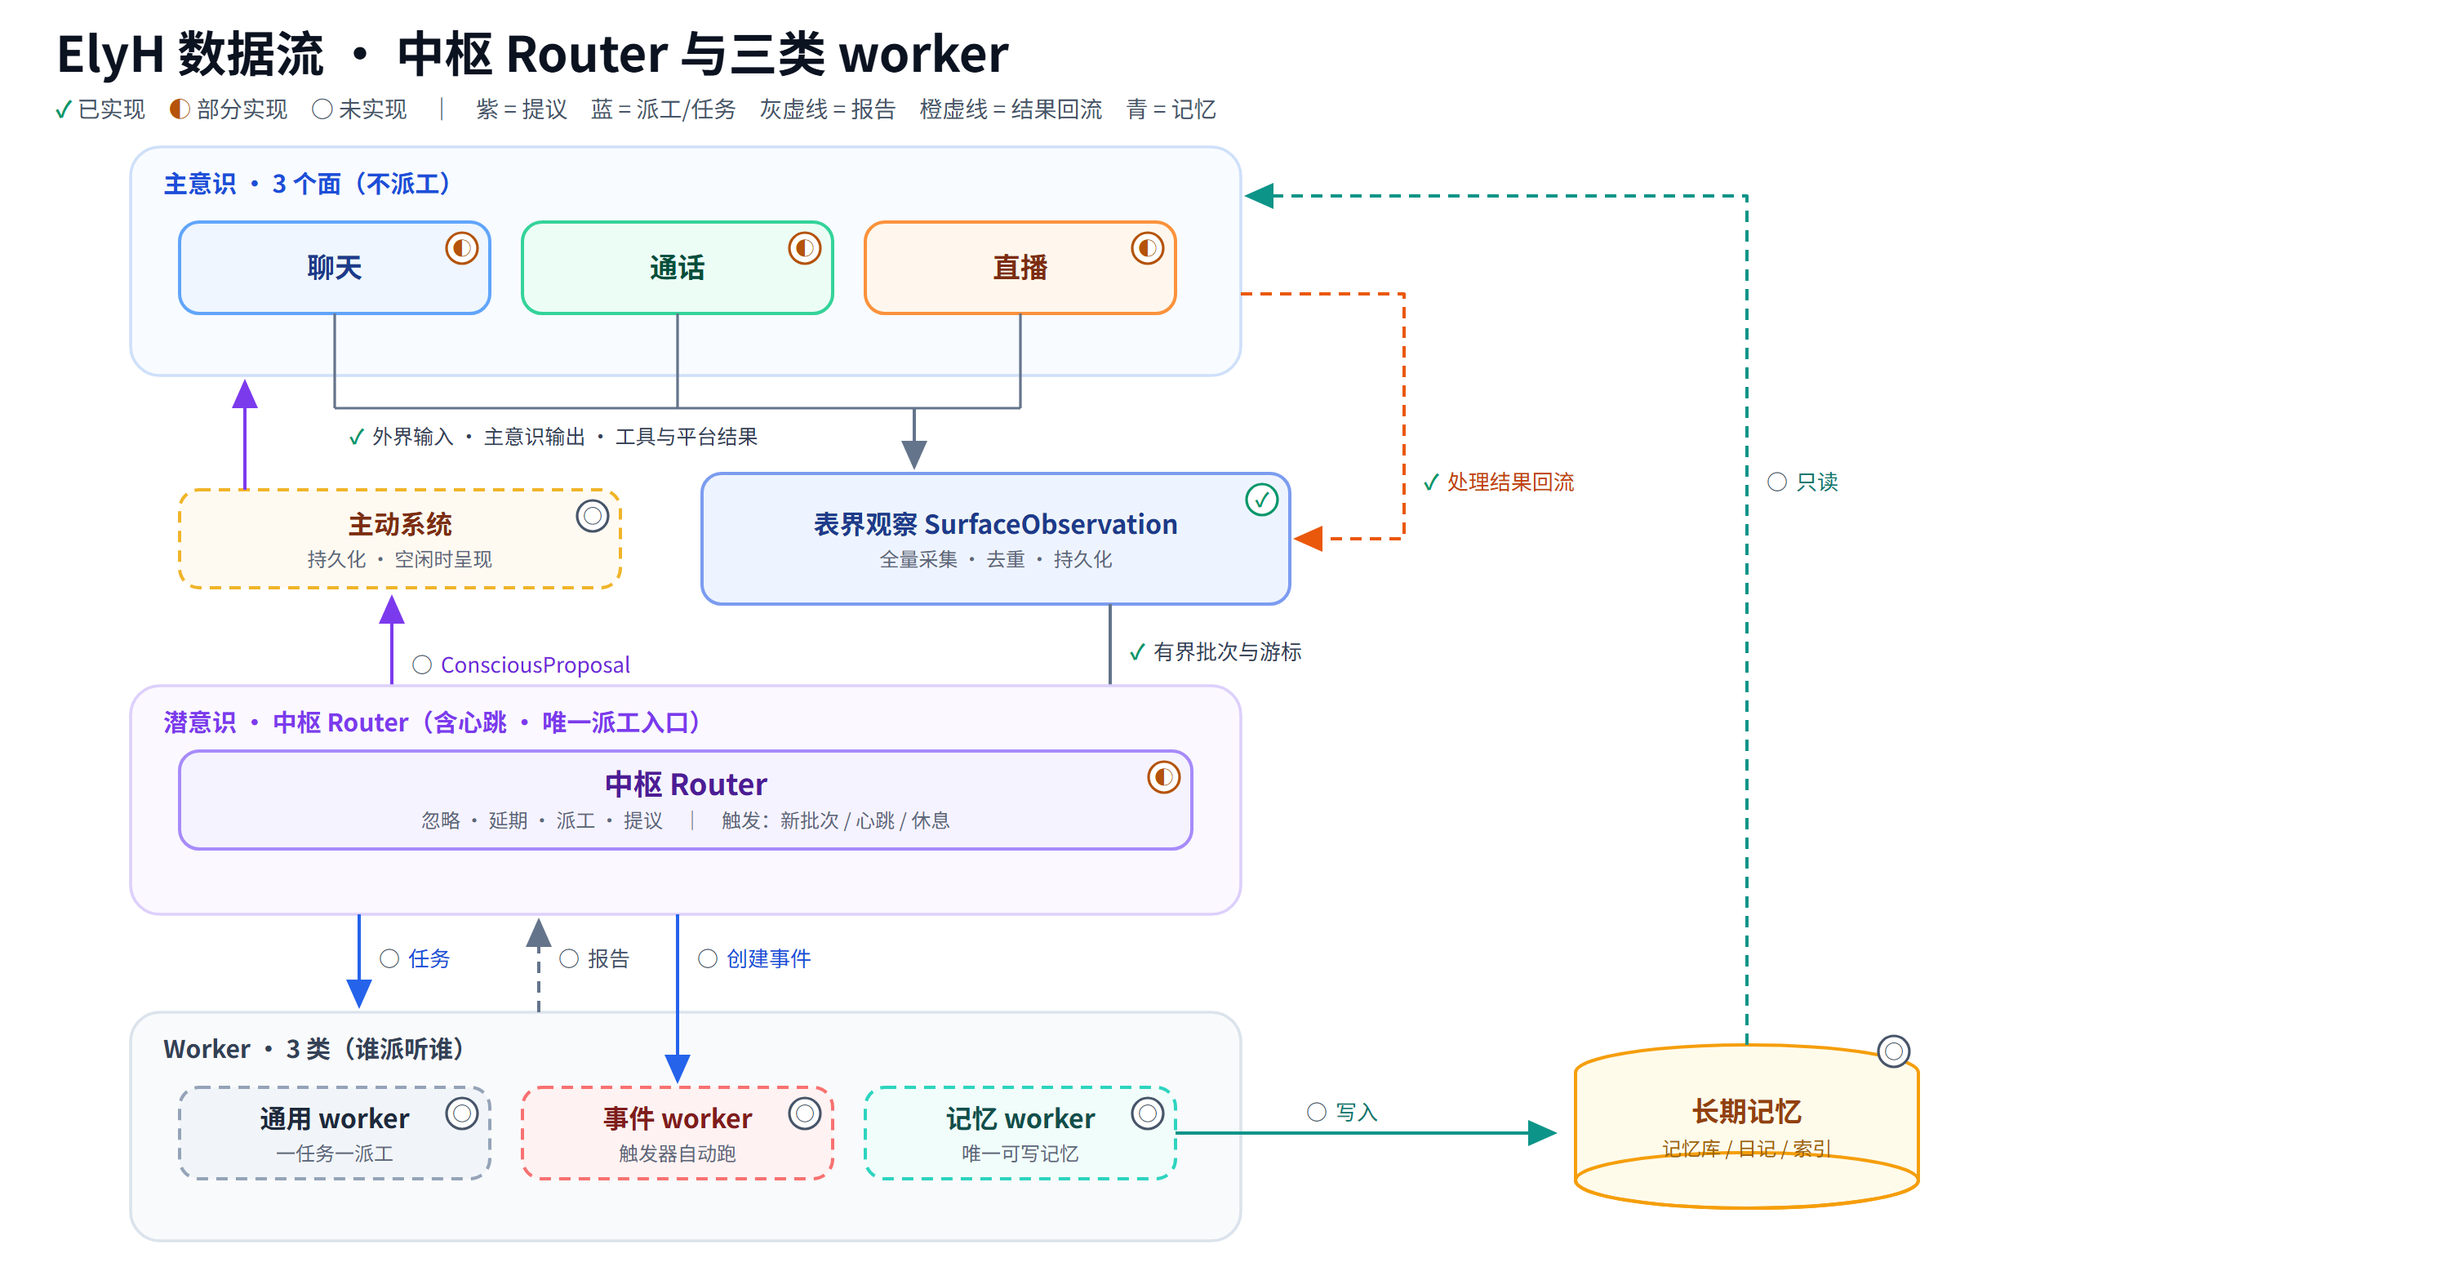
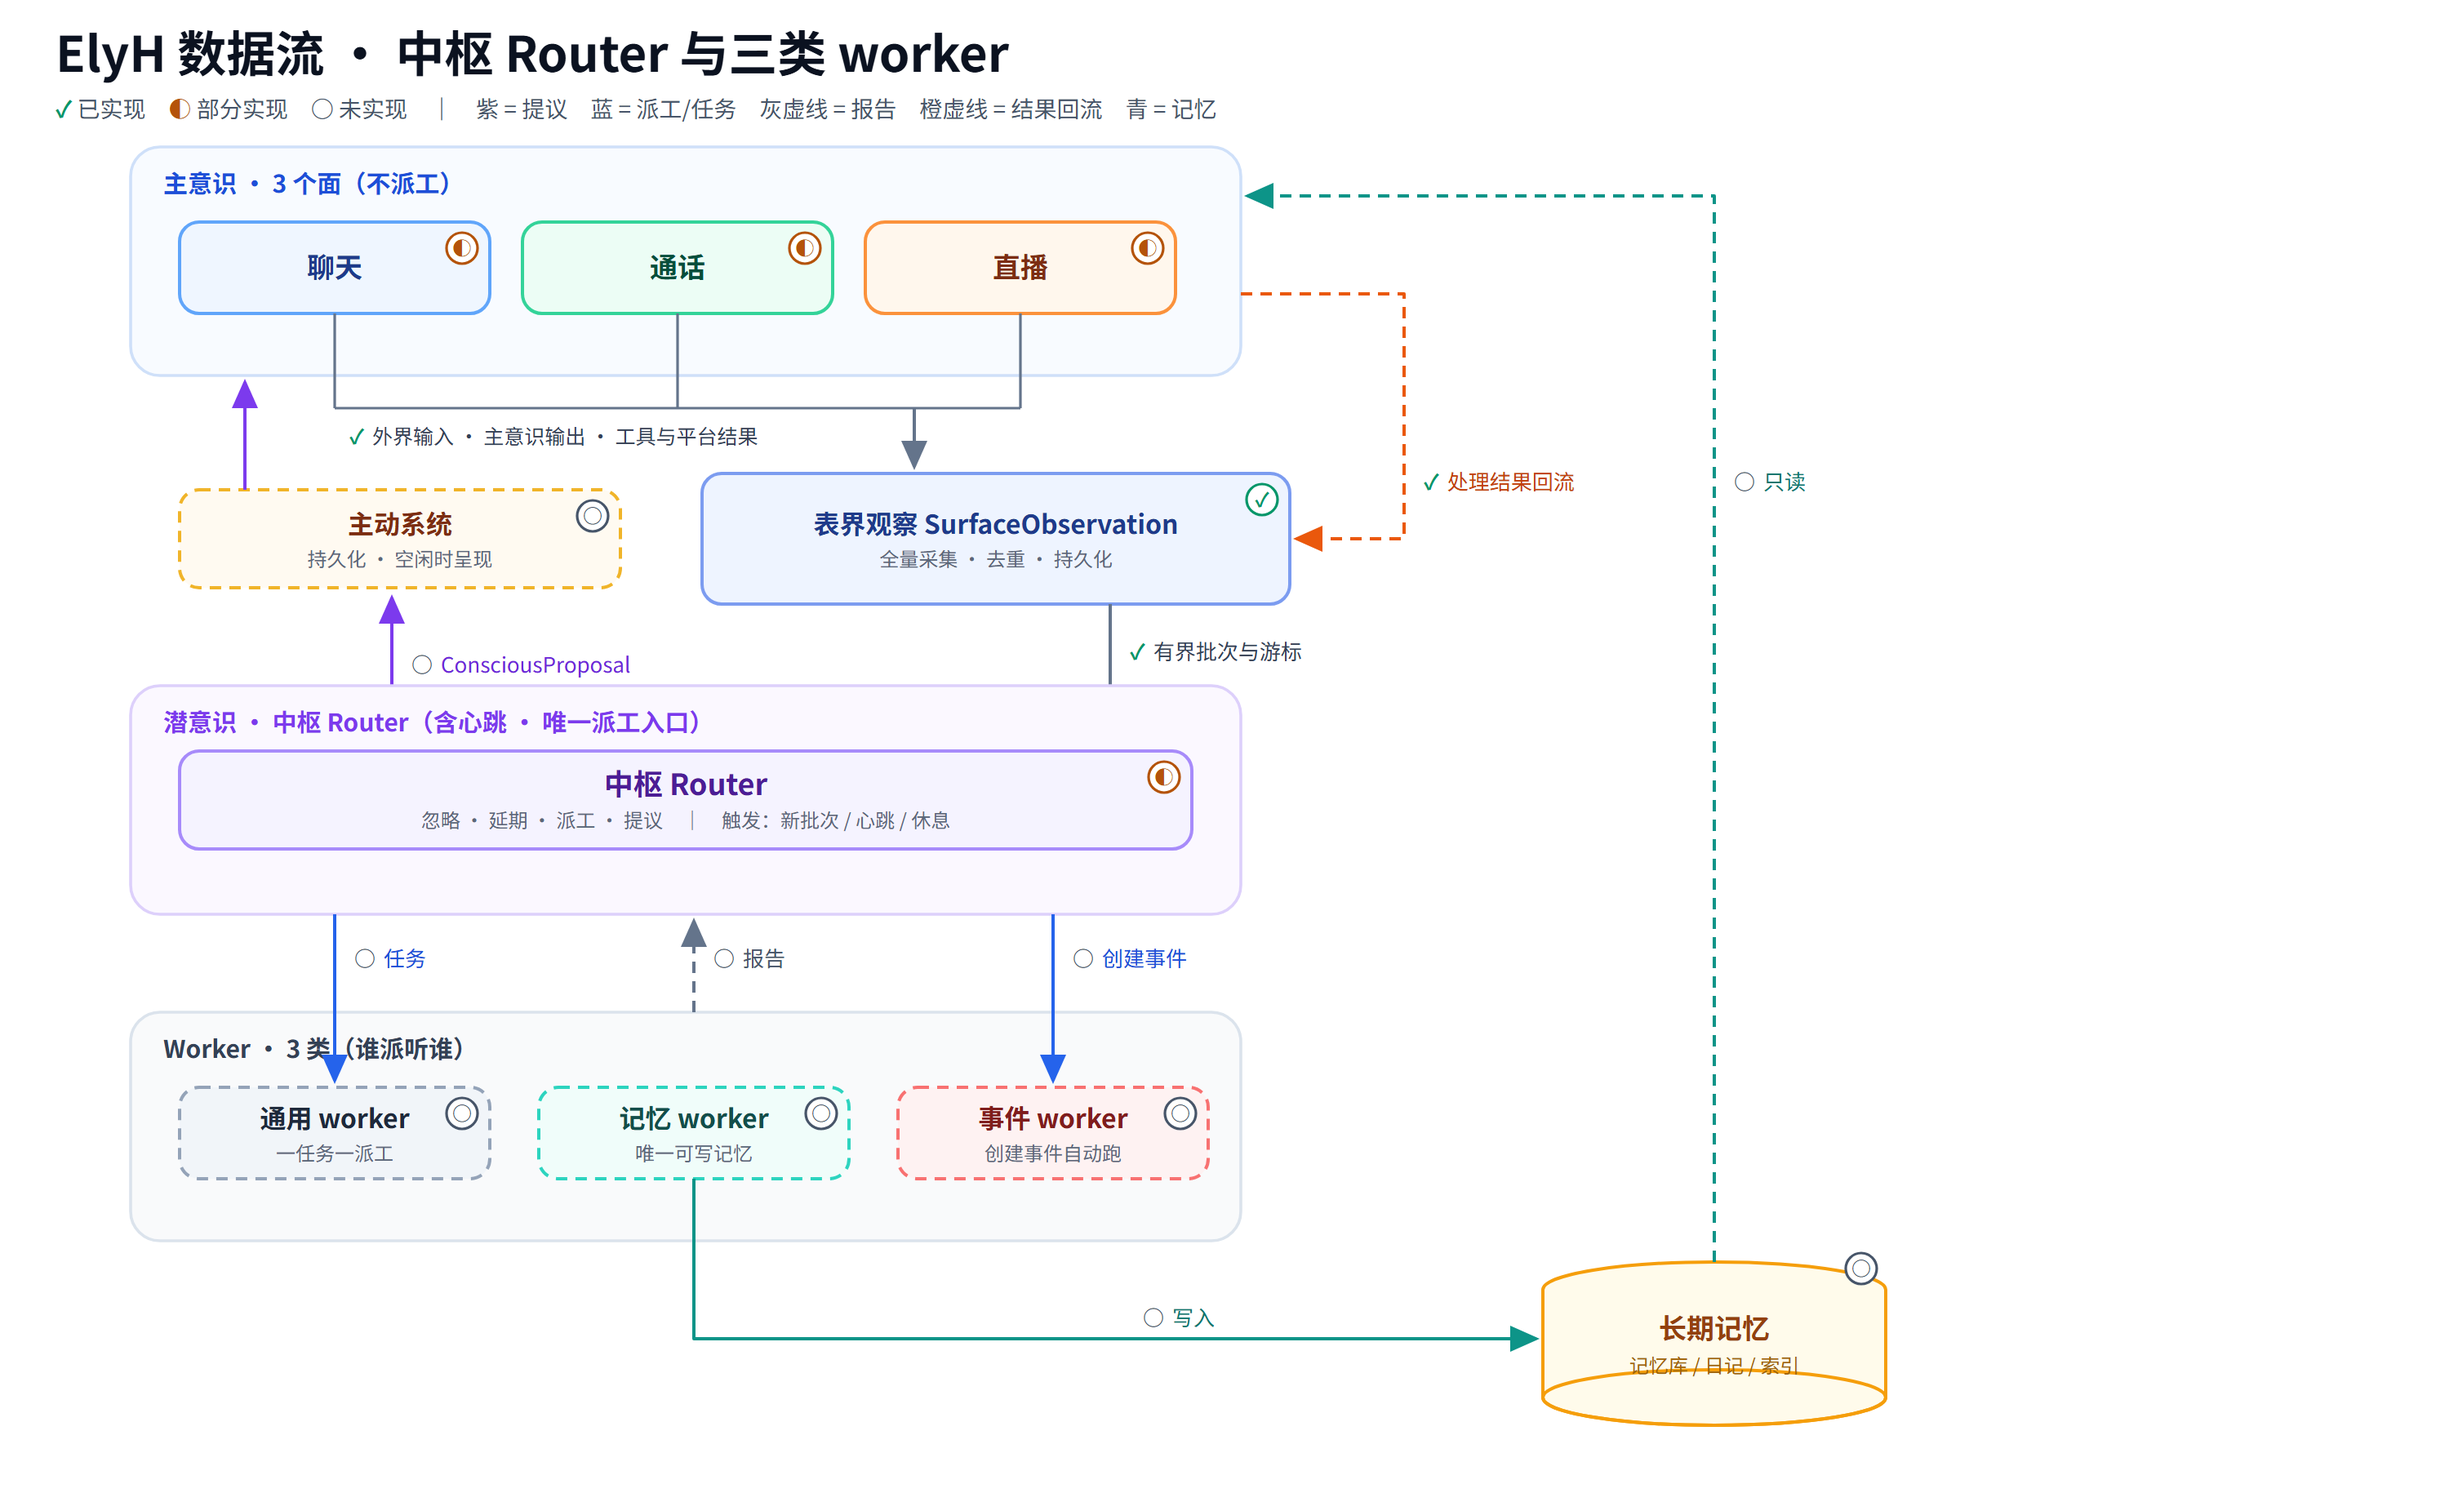
docs(architecture): spread the three dispatch arrows across the worker row
事件 worker 挪到最右，记忆 worker 居中，长期记忆挪到右下——三条箭头各对一张卡片，右侧不再空着。

diff --git a/docs/architecture/elyh-dataflow.html b/docs/architecture/elyh-dataflow.html
@@ -1,4 +1,4 @@
-<!doctype html><html lang="zh-CN"><head><meta charset="utf-8"><style>html,body{margin:0;padding:0;background:#fff}svg{display:block}</style></head><body><svg xmlns="http://www.w3.org/2000/svg" width="1500" height="784" viewBox="0 0 1500 784">
+<!doctype html><html lang="zh-CN"><head><meta charset="utf-8"><style>html,body{margin:0;padding:0;background:#fff}svg{display:block}</style></head><body><svg xmlns="http://www.w3.org/2000/svg" width="1500" height="920" viewBox="0 0 1500 920">
 <defs>
 <marker id="ap" markerWidth="10" markerHeight="10" refX="8" refY="5" orient="auto"><path d="M0,1 L9,5 L0,9 z" fill="#7c3aed"/></marker>
 <marker id="ab" markerWidth="10" markerHeight="10" refX="8" refY="5" orient="auto"><path d="M0,1 L9,5 L0,9 z" fill="#2563eb"/></marker>
@@ -6,7 +6,7 @@
 <marker id="at" markerWidth="10" markerHeight="10" refX="8" refY="5" orient="auto"><path d="M0,1 L9,5 L0,9 z" fill="#0d9488"/></marker>
 <marker id="ao" markerWidth="10" markerHeight="10" refX="8" refY="5" orient="auto"><path d="M0,1 L9,5 L0,9 z" fill="#ea580c"/></marker>
 </defs>
-<rect x="0" y="0" width="1500" height="840" fill="#ffffff"/>
+<rect x="0" y="0" width="1500" height="920" fill="#ffffff"/>
 <text x="34" y="44" font-size="30" font-weight="700" fill="#0b1220">ElyH 数据流 · 中枢 Router 与三类 worker</text>
 <text x="34" y="72" font-size="14" fill="#475569"><tspan fill="#059669" font-weight="700">✓</tspan> 已实现　<tspan fill="#b45309" font-weight="700">◐</tspan> 部分实现　<tspan fill="#475569" font-weight="700">○</tspan> 未实现　｜　紫 = 提议　蓝 = 派工/任务　灰虚线 = 报告　橙虚线 = 结果回流　青 = 记忆</text>
 <rect x="80" y="90" width="680" height="140" rx="18" fill="#f8fbff" stroke="#cfe0f9" stroke-width="1.8"/>
@@ -32,22 +32,22 @@
 <rect x="80" y="620" width="680" height="140" rx="18" fill="#f9fafb" stroke="#dbe3ec" stroke-width="1.8"/>
 <text x="100" y="648" font-size="15" font-weight="700" fill="#334155">Worker · 3 类（谁派听谁）</text>
 <rect x="110" y="666" width="190" height="56" rx="12" fill="#f1f5f9" stroke="#94a3b8" stroke-width="2" stroke-dasharray="7 5"/><text x="205" y="691" font-size="16" font-weight="700" text-anchor="middle" fill="#1e293b">通用 worker</text><text x="205" y="711" font-size="12" text-anchor="middle" fill="#5b6779">一任务一派工</text><circle cx="283" cy="682" r="9.5" fill="#ffffff" stroke="#475569" stroke-width="1.6"/><text x="283" y="686.5" font-size="12" font-weight="700" text-anchor="middle" fill="#475569">○</text>
-<rect x="320" y="666" width="190" height="56" rx="12" fill="#fef2f2" stroke="#f87171" stroke-width="2" stroke-dasharray="7 5"/><text x="415" y="691" font-size="16" font-weight="700" text-anchor="middle" fill="#7f1d1d">事件 worker</text><text x="415" y="711" font-size="12" text-anchor="middle" fill="#5b6779">触发器自动跑</text><circle cx="493" cy="682" r="9.5" fill="#ffffff" stroke="#475569" stroke-width="1.6"/><text x="493" y="686.5" font-size="12" font-weight="700" text-anchor="middle" fill="#475569">○</text>
-<rect x="530" y="666" width="190" height="56" rx="12" fill="#f0fdfa" stroke="#2dd4bf" stroke-width="2" stroke-dasharray="7 5"/><text x="625" y="691" font-size="16" font-weight="700" text-anchor="middle" fill="#134e4a">记忆 worker</text><text x="625" y="711" font-size="12" text-anchor="middle" fill="#5b6779">唯一可写记忆</text><circle cx="703" cy="682" r="9.5" fill="#ffffff" stroke="#475569" stroke-width="1.6"/><text x="703" y="686.5" font-size="12" font-weight="700" text-anchor="middle" fill="#475569">○</text>
-<path d="M220,560 L220,616" fill="none" stroke="#2563eb" stroke-width="2"  marker-end="url(#ab)" stroke-linejoin="round"/>
-<text x="232" y="592" font-size="13" fill="#1d4ed8"><tspan fill="#475569" font-weight="700">○</tspan><tspan dx="5">任务</tspan></text>
-<path d="M330,620 L330,564" fill="none" stroke="#64748b" stroke-width="2" stroke-dasharray="7 5" marker-end="url(#ag)" stroke-linejoin="round"/>
-<text x="342" y="592" font-size="13" fill="#475569"><tspan fill="#475569" font-weight="700">○</tspan><tspan dx="5">报告</tspan></text>
-<path d="M415,560 L415,662" fill="none" stroke="#2563eb" stroke-width="2"  marker-end="url(#ab)" stroke-linejoin="round"/>
-<text x="427" y="592" font-size="13" fill="#1d4ed8"><tspan fill="#475569" font-weight="700">○</tspan><tspan dx="5">创建事件</tspan></text>
-<ellipse cx="1070" cy="657" rx="105" ry="17" fill="#fffbeb" stroke="#f59e0b" stroke-width="2"/>
-<path d="M965,657 L965,723 A105,17 0 0 0 1175,723 L1175,657" fill="#fffbeb" stroke="#f59e0b" stroke-width="2"/>
-<ellipse cx="1070" cy="723" rx="105" ry="17" fill="none" stroke="#f59e0b" stroke-width="2"/>
-<text x="1070" y="687" font-size="17" font-weight="700" text-anchor="middle" fill="#92400e">长期记忆</text>
-<text x="1070" y="708" font-size="12" text-anchor="middle" fill="#a16207">记忆库 / 日记 / 索引</text>
-<circle cx="1160" cy="644" r="9.5" fill="#ffffff" stroke="#475569" stroke-width="1.6"/><text x="1160" y="648.5" font-size="12" font-weight="700" text-anchor="middle" fill="#475569">○</text>
-<path d="M720,694 L952,694" fill="none" stroke="#0d9488" stroke-width="2"  marker-end="url(#at)" stroke-linejoin="round"/>
-<text x="800" y="686" font-size="13" fill="#0f766e"><tspan fill="#475569" font-weight="700">○</tspan><tspan dx="5">写入</tspan></text>
-<path d="M1070,640 L1070,120 L764,120" fill="none" stroke="#0d9488" stroke-width="2" stroke-dasharray="7 5" marker-end="url(#at)" stroke-linejoin="round"/>
-<text x="1082" y="300" font-size="13" fill="#0f766e"><tspan fill="#475569" font-weight="700">○</tspan><tspan dx="5">只读</tspan></text>
+<rect x="330" y="666" width="190" height="56" rx="12" fill="#f0fdfa" stroke="#2dd4bf" stroke-width="2" stroke-dasharray="7 5"/><text x="425" y="691" font-size="16" font-weight="700" text-anchor="middle" fill="#134e4a">记忆 worker</text><text x="425" y="711" font-size="12" text-anchor="middle" fill="#5b6779">唯一可写记忆</text><circle cx="503" cy="682" r="9.5" fill="#ffffff" stroke="#475569" stroke-width="1.6"/><text x="503" y="686.5" font-size="12" font-weight="700" text-anchor="middle" fill="#475569">○</text>
+<rect x="550" y="666" width="190" height="56" rx="12" fill="#fef2f2" stroke="#f87171" stroke-width="2" stroke-dasharray="7 5"/><text x="645" y="691" font-size="16" font-weight="700" text-anchor="middle" fill="#7f1d1d">事件 worker</text><text x="645" y="711" font-size="12" text-anchor="middle" fill="#5b6779">创建事件自动跑</text><circle cx="723" cy="682" r="9.5" fill="#ffffff" stroke="#475569" stroke-width="1.6"/><text x="723" y="686.5" font-size="12" font-weight="700" text-anchor="middle" fill="#475569">○</text>
+<path d="M205,560 L205,662" fill="none" stroke="#2563eb" stroke-width="2"  marker-end="url(#ab)" stroke-linejoin="round"/>
+<text x="217" y="592" font-size="13" fill="#1d4ed8"><tspan fill="#475569" font-weight="700">○</tspan><tspan dx="5">任务</tspan></text>
+<path d="M425,620 L425,564" fill="none" stroke="#64748b" stroke-width="2" stroke-dasharray="7 5" marker-end="url(#ag)" stroke-linejoin="round"/>
+<text x="437" y="592" font-size="13" fill="#475569"><tspan fill="#475569" font-weight="700">○</tspan><tspan dx="5">报告</tspan></text>
+<path d="M645,560 L645,662" fill="none" stroke="#2563eb" stroke-width="2"  marker-end="url(#ab)" stroke-linejoin="round"/>
+<text x="657" y="592" font-size="13" fill="#1d4ed8"><tspan fill="#475569" font-weight="700">○</tspan><tspan dx="5">创建事件</tspan></text>
+<ellipse cx="1050" cy="790" rx="105" ry="17" fill="#fffbeb" stroke="#f59e0b" stroke-width="2"/>
+<path d="M945,790 L945,856 A105,17 0 0 0 1155,856 L1155,790" fill="#fffbeb" stroke="#f59e0b" stroke-width="2"/>
+<ellipse cx="1050" cy="856" rx="105" ry="17" fill="none" stroke="#f59e0b" stroke-width="2"/>
+<text x="1050" y="820" font-size="17" font-weight="700" text-anchor="middle" fill="#92400e">长期记忆</text>
+<text x="1050" y="841" font-size="12" text-anchor="middle" fill="#a16207">记忆库 / 日记 / 索引</text>
+<circle cx="1140" cy="777" r="9.5" fill="#ffffff" stroke="#475569" stroke-width="1.6"/><text x="1140" y="781.5" font-size="12" font-weight="700" text-anchor="middle" fill="#475569">○</text>
+<path d="M425,722 L425,820 L941,820" fill="none" stroke="#0d9488" stroke-width="2"  marker-end="url(#at)" stroke-linejoin="round"/>
+<text x="700" y="812" font-size="13" fill="#0f766e"><tspan fill="#475569" font-weight="700">○</tspan><tspan dx="5">写入</tspan></text>
+<path d="M1050,773 L1050,120 L764,120" fill="none" stroke="#0d9488" stroke-width="2" stroke-dasharray="7 5" marker-end="url(#at)" stroke-linejoin="round"/>
+<text x="1062" y="300" font-size="13" fill="#0f766e"><tspan fill="#475569" font-weight="700">○</tspan><tspan dx="5">只读</tspan></text>
 </svg></body></html>
